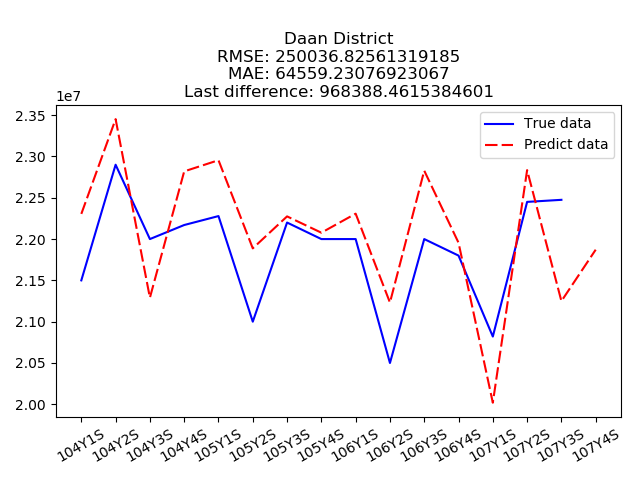
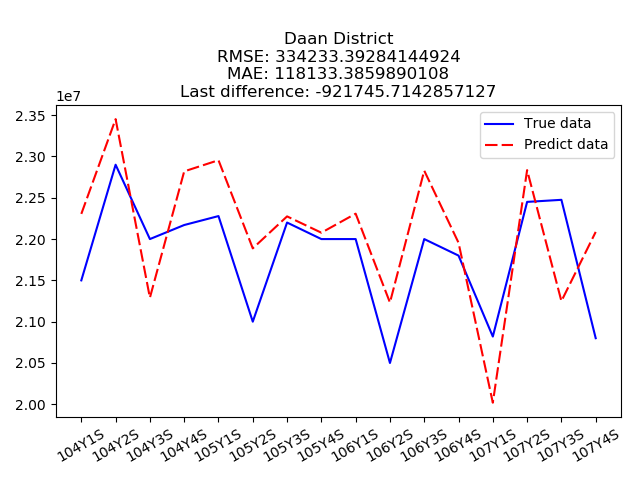
debug

Changed region(s): [[0.2812, 0.0938, 0.7812, 0.2188], [0.875, 0.4062, 0.9375, 0.6875]]

diff --git a/server.py b/server.py
@@ -62,7 +62,7 @@ def production(longitude, latitude):
     if target:
         xtrick.append("107Y3S")
 
-        predict = np.array(predict_data)
+        predict = np.array(data)
         time = np.array(list(range(len(predict_data))))
 
         lm = LinearRegression()
@@ -76,7 +76,15 @@ def production(longitude, latitude):
 
         xtrick.append("107Y4S")
 
-        predict = np.array(predict_data)
+        with open("107年3季行政區不動產實價登錄建物成交單價中位數—按屋齡分_鄉鎮市區.csv", newline='', encoding="cp950") as csvfile:
+            rows = list(csv.reader(csvfile))
+            for row in rows:
+                if target in row:
+                    print(row)
+                    data.append(float(row[13]))
+                    break
+
+        predict = np.array(data)
         time = np.array(list(range(len(predict_data))))
 
         lm = LinearRegression()
@@ -87,11 +95,11 @@ def production(longitude, latitude):
         predicted_sales = lm.predict(np.reshape(
             to_be_predicted, (len(to_be_predicted), 1)))
         predict_data.append(predicted_sales.tolist()[0][0])
-
-        with open("107年3季行政區不動產實價登錄建物成交單價中位數—按屋齡分_鄉鎮市區.csv", newline='', encoding="cp950") as csvfile:
+        
+        with open("107年4季行政區不動產實價登錄建物成交單價中位數—按屋齡分_鄉鎮市區.csv", newline='', encoding="cp950") as csvfile:
             rows = list(csv.reader(csvfile))
             for row in rows:
-                if target in row:
+                if target in row:                
                     print(row)
                     data.append(float(row[13]))
                     break
@@ -107,9 +115,10 @@ def production(longitude, latitude):
     for i in range(len(data)):
         dsum += abs(data[i]-predict_data[i])
     MAE = 1/len(data)*dsum
-    plt.title("\n"+etarget+"\nRMSE: "+str(RMSE)+"\nMAE: "+str(MAE)+"\nLast difference: "+str(data[-1]-predict_data[-2]))
+    plt.title("\n"+etarget+"\nRMSE: "+str(RMSE)+"\nMAE: "+str(MAE)+"\nLast difference: "+str(data[-1]-predict_data[-1]))
     plt.plot(list(range(len(data))), data, 'b-', label="True data")
     plt.plot(list(range(len(predict_data))), [x + random.randint(-max(predict_data)/25,max(predict_data)/25) for x in predict_data], 'r', dashes=[6, 2], label="Predict data")
+    
     plt.xticks(list(range(len(predict_data))), xtrick, rotation=30)
     plt.legend(loc=0)
     plt.tight_layout()
